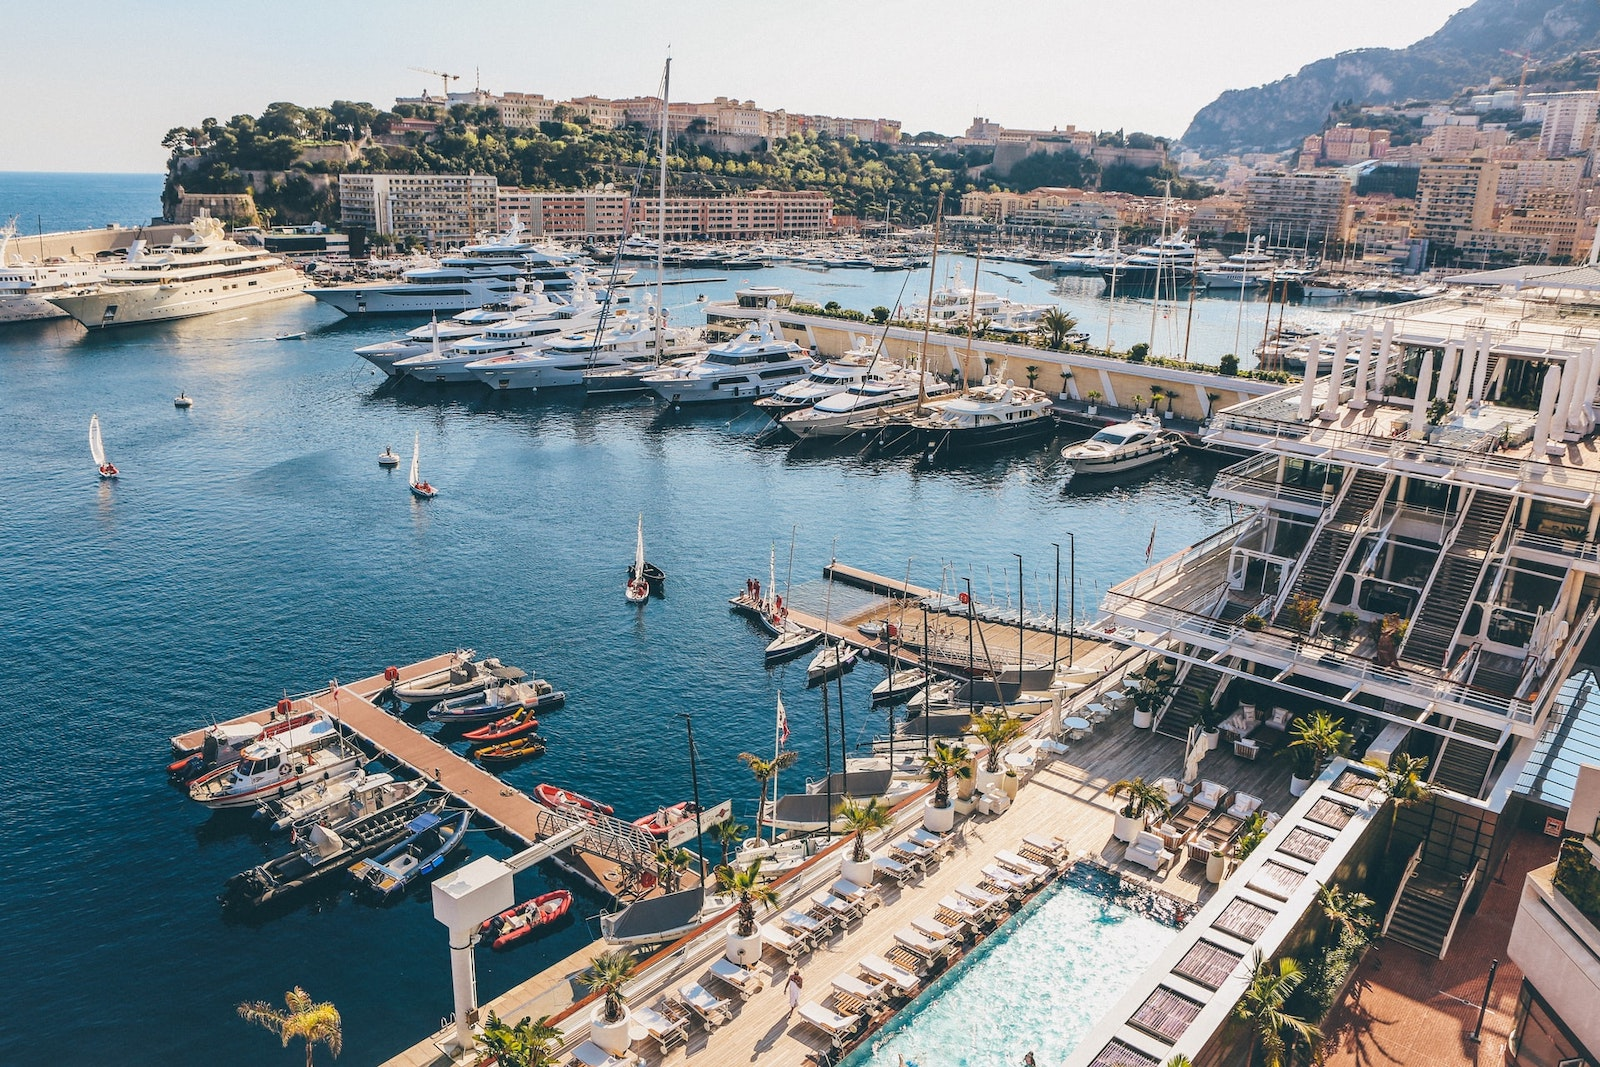
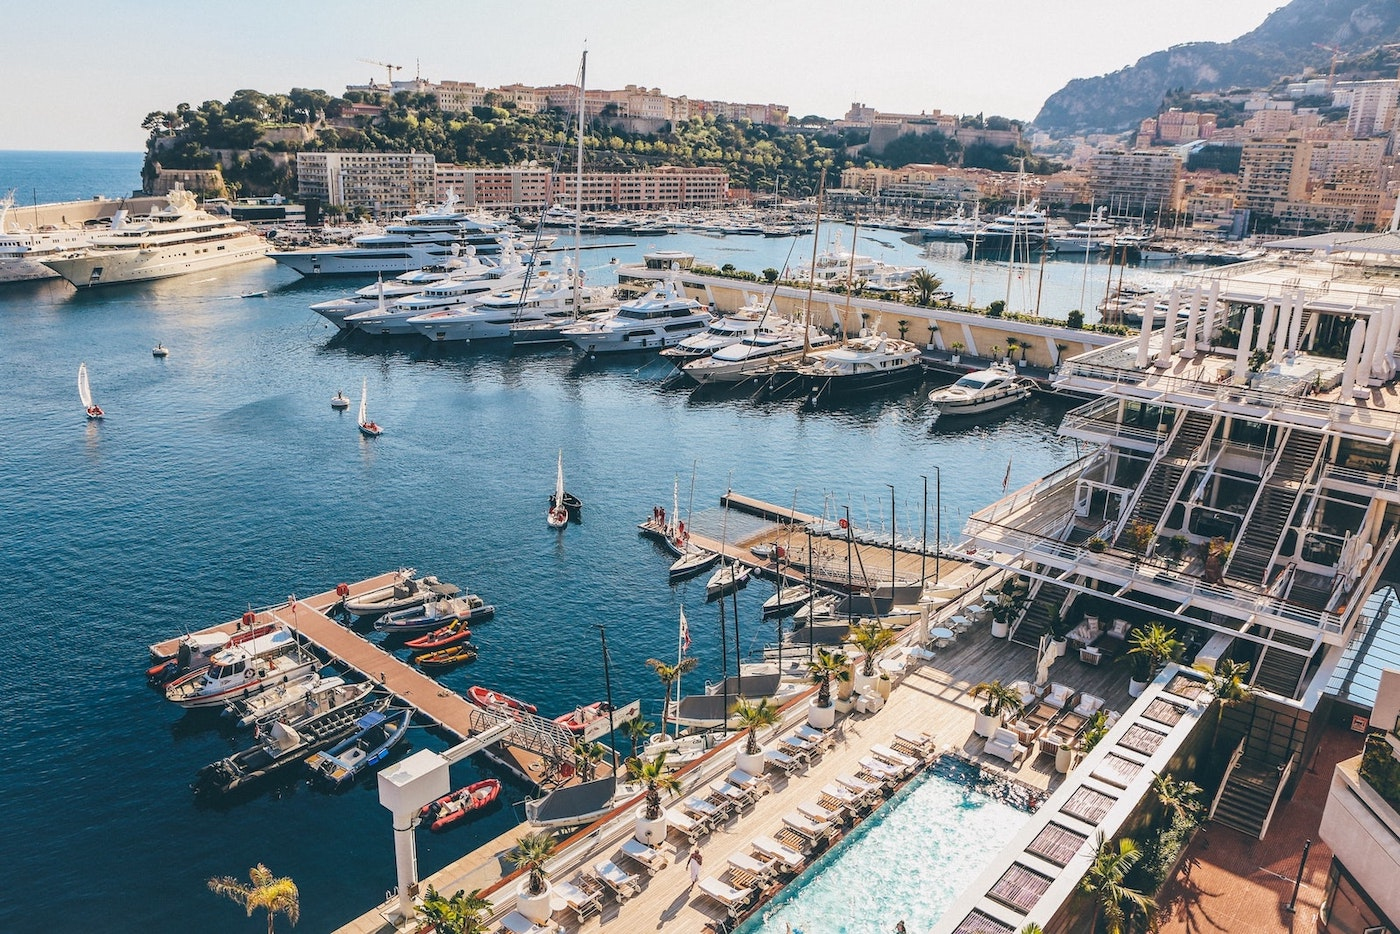
optimized hero images

diff --git a/src/pages/contact.js b/src/pages/contact.js
@@ -9,11 +9,11 @@ const ContactHero = styled.div`
   background: url(${contactImg}) center center/cover no-repeat;
   padding: 12rem calc((100vw - 1300px) / 2);
   width: 100%;
+  height: 100%;
   font-size: 5rem;
   color: #fff;
   font-family: "PT Sans Caption", sans-serif;
   box-shadow: inset 0 0 0 1000px rgba(0, 0, 0, 0.35);
-  height: 100%;
   margin: auto;
   display: flex;
   align-items: center;

diff --git a/src/pages/about.js b/src/pages/about.js
@@ -9,11 +9,11 @@ const AboutHero = styled.div`
   background: url(${aboutImg}) center center/cover no-repeat;
   padding: 12rem calc((100vw - 1300px) / 2);
   width: 100%;
+  height: 100%;
   font-size: 5rem;
   color: #fff;
   font-family: "PT Sans Caption", sans-serif;
   box-shadow: inset 0 0 0 1000px rgba(0, 0, 0, 0.35);
-  height: 100%;
   margin: auto;
   display: flex;
   align-items: center;

diff --git a/src/components/Hero.js b/src/components/Hero.js
@@ -36,7 +36,6 @@ export default Hero
 const HeroContainer = styled.div`
   display: flex;
   /* background: #0c0c0c; */
-  background: url("../assets/images/hero.png") no-repeat center center/cover;
   justify-content: center;
   align-items: center;
   width: 100%;
